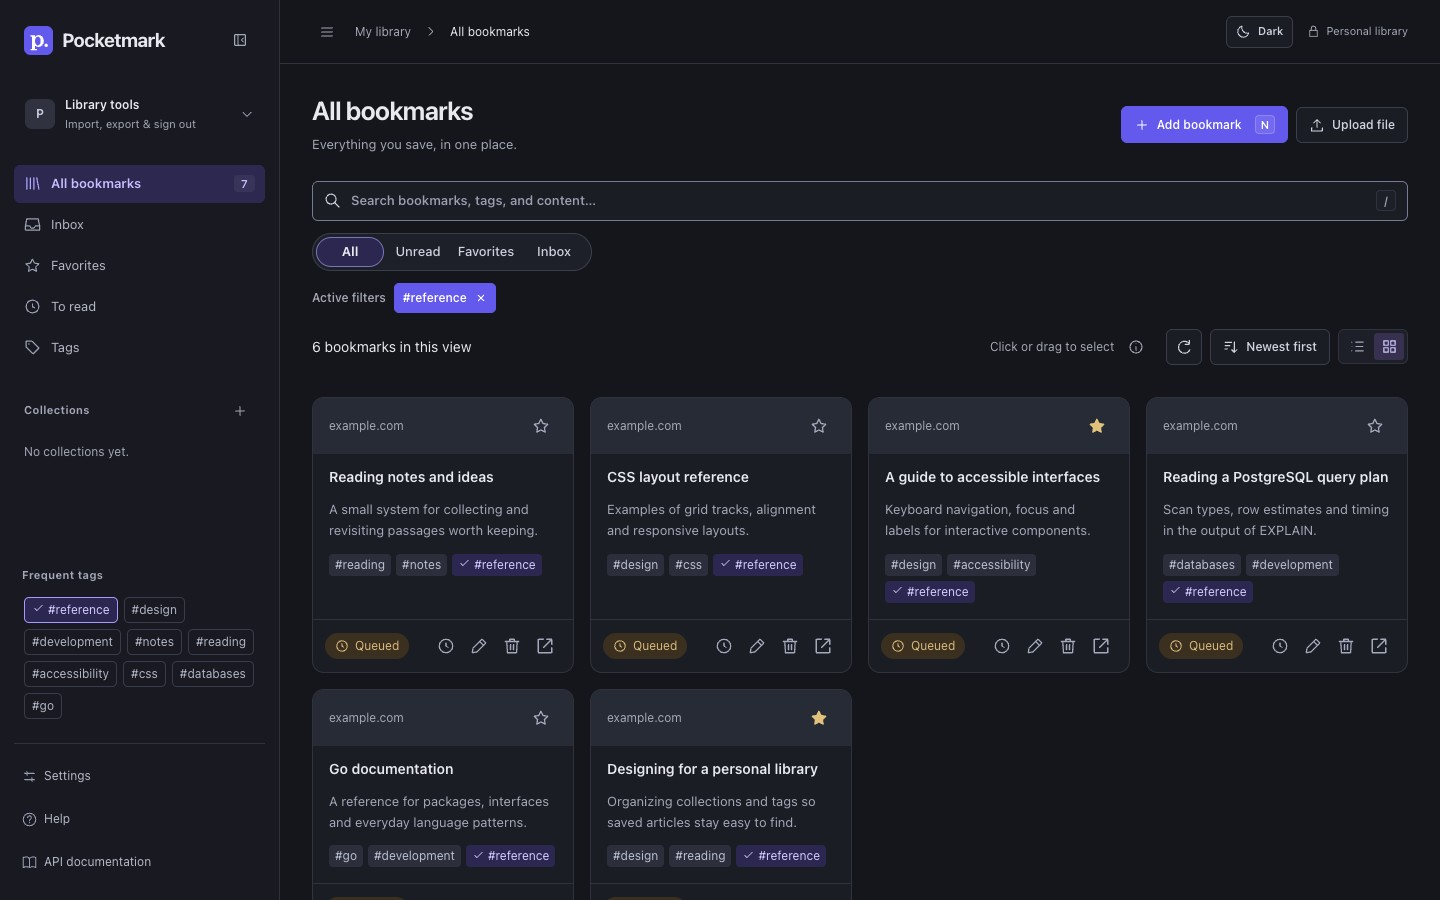
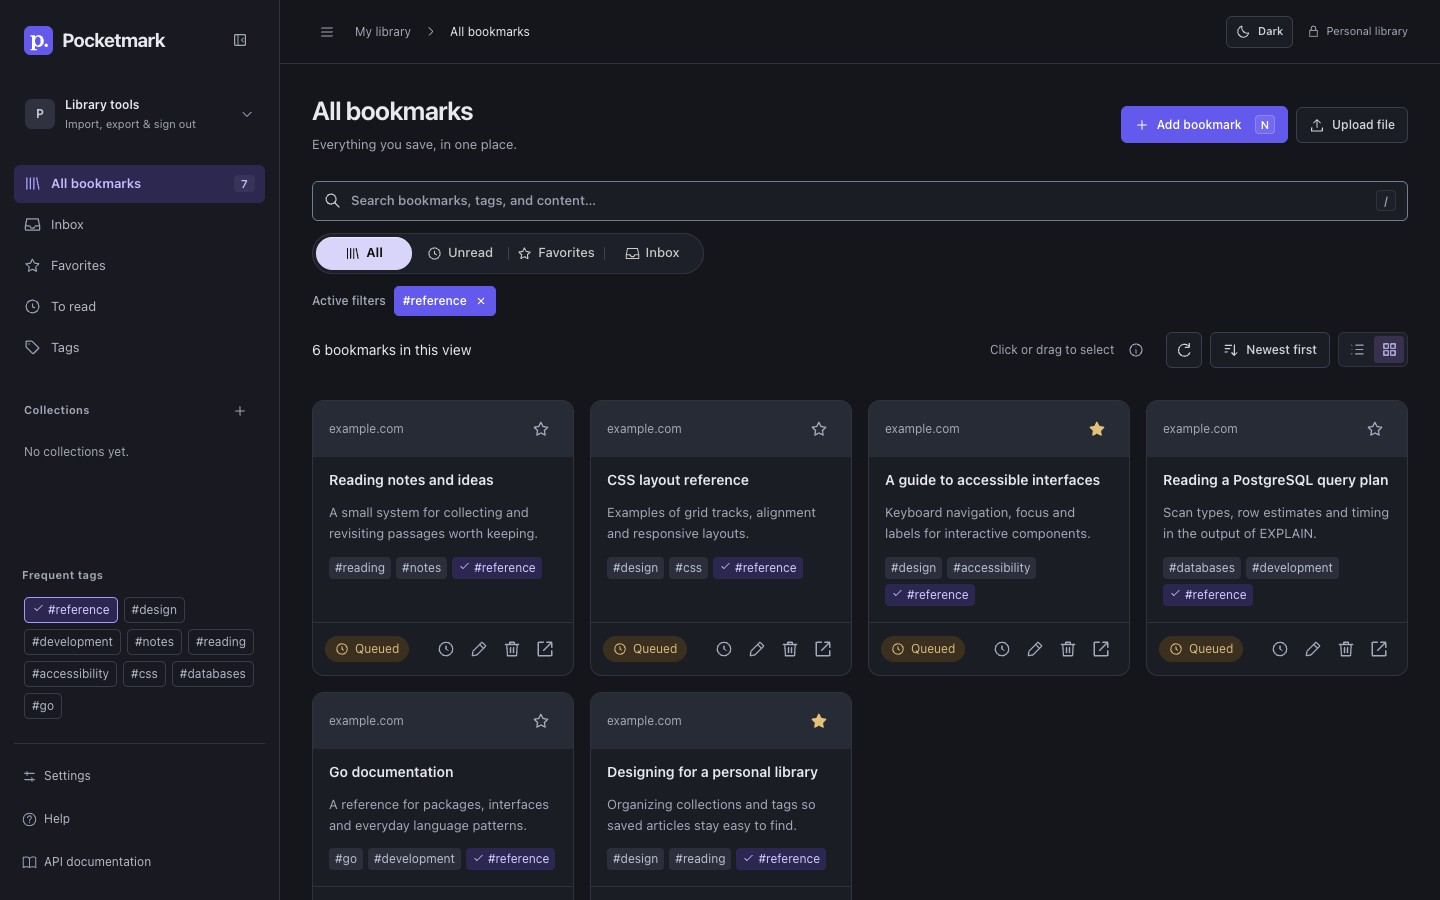
feat(library): refine the segmented filter selector

diff --git a/internal/webui/static/style.css b/internal/webui/static/style.css
@@ -138,18 +138,78 @@ h1 { font-size: 26px; line-height: 1.3; font-weight: 650; letter-spacing: -.7px;
 .text-button { border: 0; background: transparent; color: #5146c8; font-size: 12px; padding: 4px 0; }
 .text-button:hover { text-decoration: underline; text-underline-offset: 3px; }
 .library-toolbar { display: flex; gap: 8px; align-items: center; }
-.quick-filters { display: grid; grid-template-columns: repeat(4, minmax(0, 1fr)); width: min(100%, 20rem); min-width: 0; margin: 12px 0 0; padding: 3px; border: 1px solid var(--control-border); border-radius: 999px; background: var(--surface); }
-.quick-filters label { position: relative; margin: 0; font-size: 13px; font-weight: 500; }
+.quick-filters {
+  --filter-inset: 4px;
+  --filter-track: color-mix(in srgb, var(--ink) 9%, var(--paper));
+  --filter-thumb: var(--paper);
+  --filter-label-ink: var(--control-ink);
+  --filter-hover-ink: var(--ink);
+  --filter-selected-ink: var(--accent-hover);
+  position: relative;
+  isolation: isolate;
+  display: grid;
+  grid-template-columns: repeat(4, minmax(0, 1fr));
+  container-type: inline-size;
+  width: min(100%, 28rem);
+  min-width: 0;
+  margin: 12px 0 0;
+  padding: var(--filter-inset);
+  border: 0;
+  border-radius: 999px;
+  background: var(--filter-track);
+  box-shadow: inset 0 1px 2px #10122412;
+}
+:root[data-theme="dark"] .quick-filters {
+  --filter-track: var(--surface);
+  --filter-thumb: #d9d5fa;
+  --filter-label-ink: var(--ink);
+  --filter-hover-ink: white;
+  --filter-selected-ink: var(--ink);
+  box-shadow: inset 0 0 0 1px var(--line);
+}
+.quick-filters:has(:checked)::before {
+  content: "";
+  position: absolute;
+  inset: var(--filter-inset) auto var(--filter-inset) var(--filter-inset);
+  width: calc((100% - 2 * var(--filter-inset)) / 4);
+  border-radius: inherit;
+  background: var(--filter-thumb);
+  box-shadow: inset 0 1px 0 #ffffff80, 0 1px 3px #18162d29;
+  transform: translateX(var(--filter-offset, 0%));
+  pointer-events: none;
+}
+.quick-filters:has([value="unread"]:checked) { --filter-offset: 100%; }
+.quick-filters:has([value="favorite"]:checked) { --filter-offset: 200%; }
+.quick-filters:has([value="inbox"]:checked) { --filter-offset: 300%; }
+.quick-filters label { position: relative; margin: 0; border-radius: inherit; font-size: 13px; font-weight: 500; }
+.quick-filters label + label::before {
+  content: "";
+  position: absolute;
+  inset: 30% auto 30% 0;
+  border-inline-start: 1px solid color-mix(in srgb, var(--muted) 25%, transparent);
+}
+.quick-filters label:has(:checked)::before,
+.quick-filters label:has(:checked) + label::before { visibility: hidden; }
 .quick-filters input { position: absolute; inset: 0; z-index: 1; width: 100%; height: 100%; margin: 0; opacity: 0; cursor: pointer; }
-.quick-filters label span { display: grid; place-items: center; min-height: 30px; border: 1px solid transparent; border-radius: 999px; color: var(--control-ink); }
-.quick-filters label:hover span { background: var(--control-hover); }
-.quick-filters input:checked + span { background: var(--accent-soft); color: var(--ink); border-color: color-mix(in srgb, var(--focus) 60%, var(--control-border)); font-weight: 650; }
-.quick-filters input:focus-visible + span { outline: 2px solid var(--focus); outline-offset: 1px; }
-@media (max-width: 600px) { .quick-filters label span { min-height: 44px; } }
+.quick-filter-label { display: flex; align-items: center; justify-content: center; gap: 6px; min-height: 33px; border-radius: inherit; color: var(--filter-label-ink); }
+.quick-filter-label .icon { width: 15px; height: 15px; }
+.quick-filters label:hover .quick-filter-label { color: var(--filter-hover-ink); }
+.quick-filters input:checked + .quick-filter-label { color: var(--filter-selected-ink); font-weight: 650; }
+.quick-filters label:has(:focus-visible) { outline: 2px solid var(--focus); outline-offset: 1px; }
+@media (forced-colors: none) {
+  /* Keep the glyphs legible as the light thumb passes underneath them. */
+  :root[data-theme="dark"] .quick-filter-label { mix-blend-mode: difference; }
+}
+@container (max-width: 336px) { .quick-filter-label [data-icon] { display: none; } }
+@media (max-width: 600px) { .quick-filter-label { min-height: 44px; } }
+@media (prefers-reduced-motion: no-preference) {
+  .quick-filters::before { transition: transform 180ms var(--ease-ui); }
+}
 @media (forced-colors: active) {
-  .quick-filters input:not(:checked) + span { border-style: none; }
-  .quick-filters input:checked + span { forced-color-adjust: none; background: Highlight; color: HighlightText; border-color: Highlight; }
-  .quick-filters input:focus-visible + span { outline-color: CanvasText; }
+  .quick-filters { outline: 1px solid ButtonText; }
+  .quick-filters:has(:checked)::before { content: none; }
+  .quick-filters input:checked + .quick-filter-label { forced-color-adjust: none; background: Highlight; color: HighlightText; }
+  .quick-filters label:has(:focus-visible) { outline-color: CanvasText; }
 }
 .search-box { display: flex; align-items: center; gap: 10px; flex: 1; min-width: 0; background: #fff; border: 1px solid #dcdfe7; padding: 0 11px; border-radius: 6px; margin: 0; color: #737b8c; }
 .search-box input { width: 100%; min-width: 0; padding: 9px 0; border: 0; border-radius: 0; background: transparent; font-size: 13px; }
@@ -655,7 +715,7 @@ body:has(dialog[open]) { overflow: hidden; }
   .library-header .reader-actions { width: 100%; }
   .library-header .reader-actions > .button { min-height: 44px; }
   .primary kbd, .search-box kbd { display: none; }
-  .library-toolbar { flex-wrap: wrap; padding-bottom: 14px; }
+  .library-toolbar { flex-wrap: wrap; }
   .library-toolbar .search-box { flex-basis: 100%; }
   .search-box input { font-size: 16px; padding-block: 11px; }
   .library-toolbar > select { flex: 1; max-width: none; min-height: 40px; }

diff --git a/frontend/src/components/app-view.jsx b/frontend/src/components/app-view.jsx
@@ -278,11 +278,11 @@ export function AppView() {
             <fieldset className="quick-filters">
               <legend className="sr-only">Filter bookmarks</legend>
               {[
-                ["all", "All"],
-                ["unread", "Unread"],
-                ["favorite", "Favorites"],
-                ["inbox", "Inbox"],
-              ].map(([value, label]) => (
+                ["all", "All", "library"],
+                ["unread", "Unread", "clock"],
+                ["favorite", "Favorites", "star"],
+                ["inbox", "Inbox", "inbox"],
+              ].map(([value, label, icon]) => (
                 <label key={value}>
                   <Input
                     type="radio"
@@ -290,7 +290,10 @@ export function AppView() {
                     value={value}
                     defaultChecked={value === "all"}
                   />
-                  <span>{label}</span>
+                  <span className="quick-filter-label">
+                    <span data-icon={icon} aria-hidden="true"></span>
+                    {label}
+                  </span>
                 </label>
               ))}
             </fieldset>

diff --git a/DESIGN.md b/DESIGN.md
@@ -248,7 +248,9 @@ Small rectangular tags use neutral fill, short padding and compact type. Hover o
 
 ### Segmented control
 
-Quick filters beneath library search share one rounded track with four equal segments and centered labels. The current destination has a soft indigo fill, a fine outline and a heavier label. A named collection leaves the four global destinations unselected. Tag filters narrow the current destination and stay active when switching segments. Keep the segments on one line with 44px minimum targets on phones. Tab enters the native radio group and arrow keys switch destinations while keeping focus in the group.
+Quick filters beneath library search sit on a single recessed track. A raised white thumb in light mode and a pale lavender thumb in dark mode mark the current destination. Fine dividers separate neighboring inactive segments. Center each label with its navigation icon and drop the icons when the track is too narrow. Keep the four labels on one line with 44px minimum targets on phones.
+
+Tab enters the native radio group. Arrow keys switch destinations and slide the thumb into place over 180ms. Reduced motion makes the change immediate. Tag filters stay active when switching segments. A named collection leaves the four global destinations unselected.
 
 ### Capture status
 
